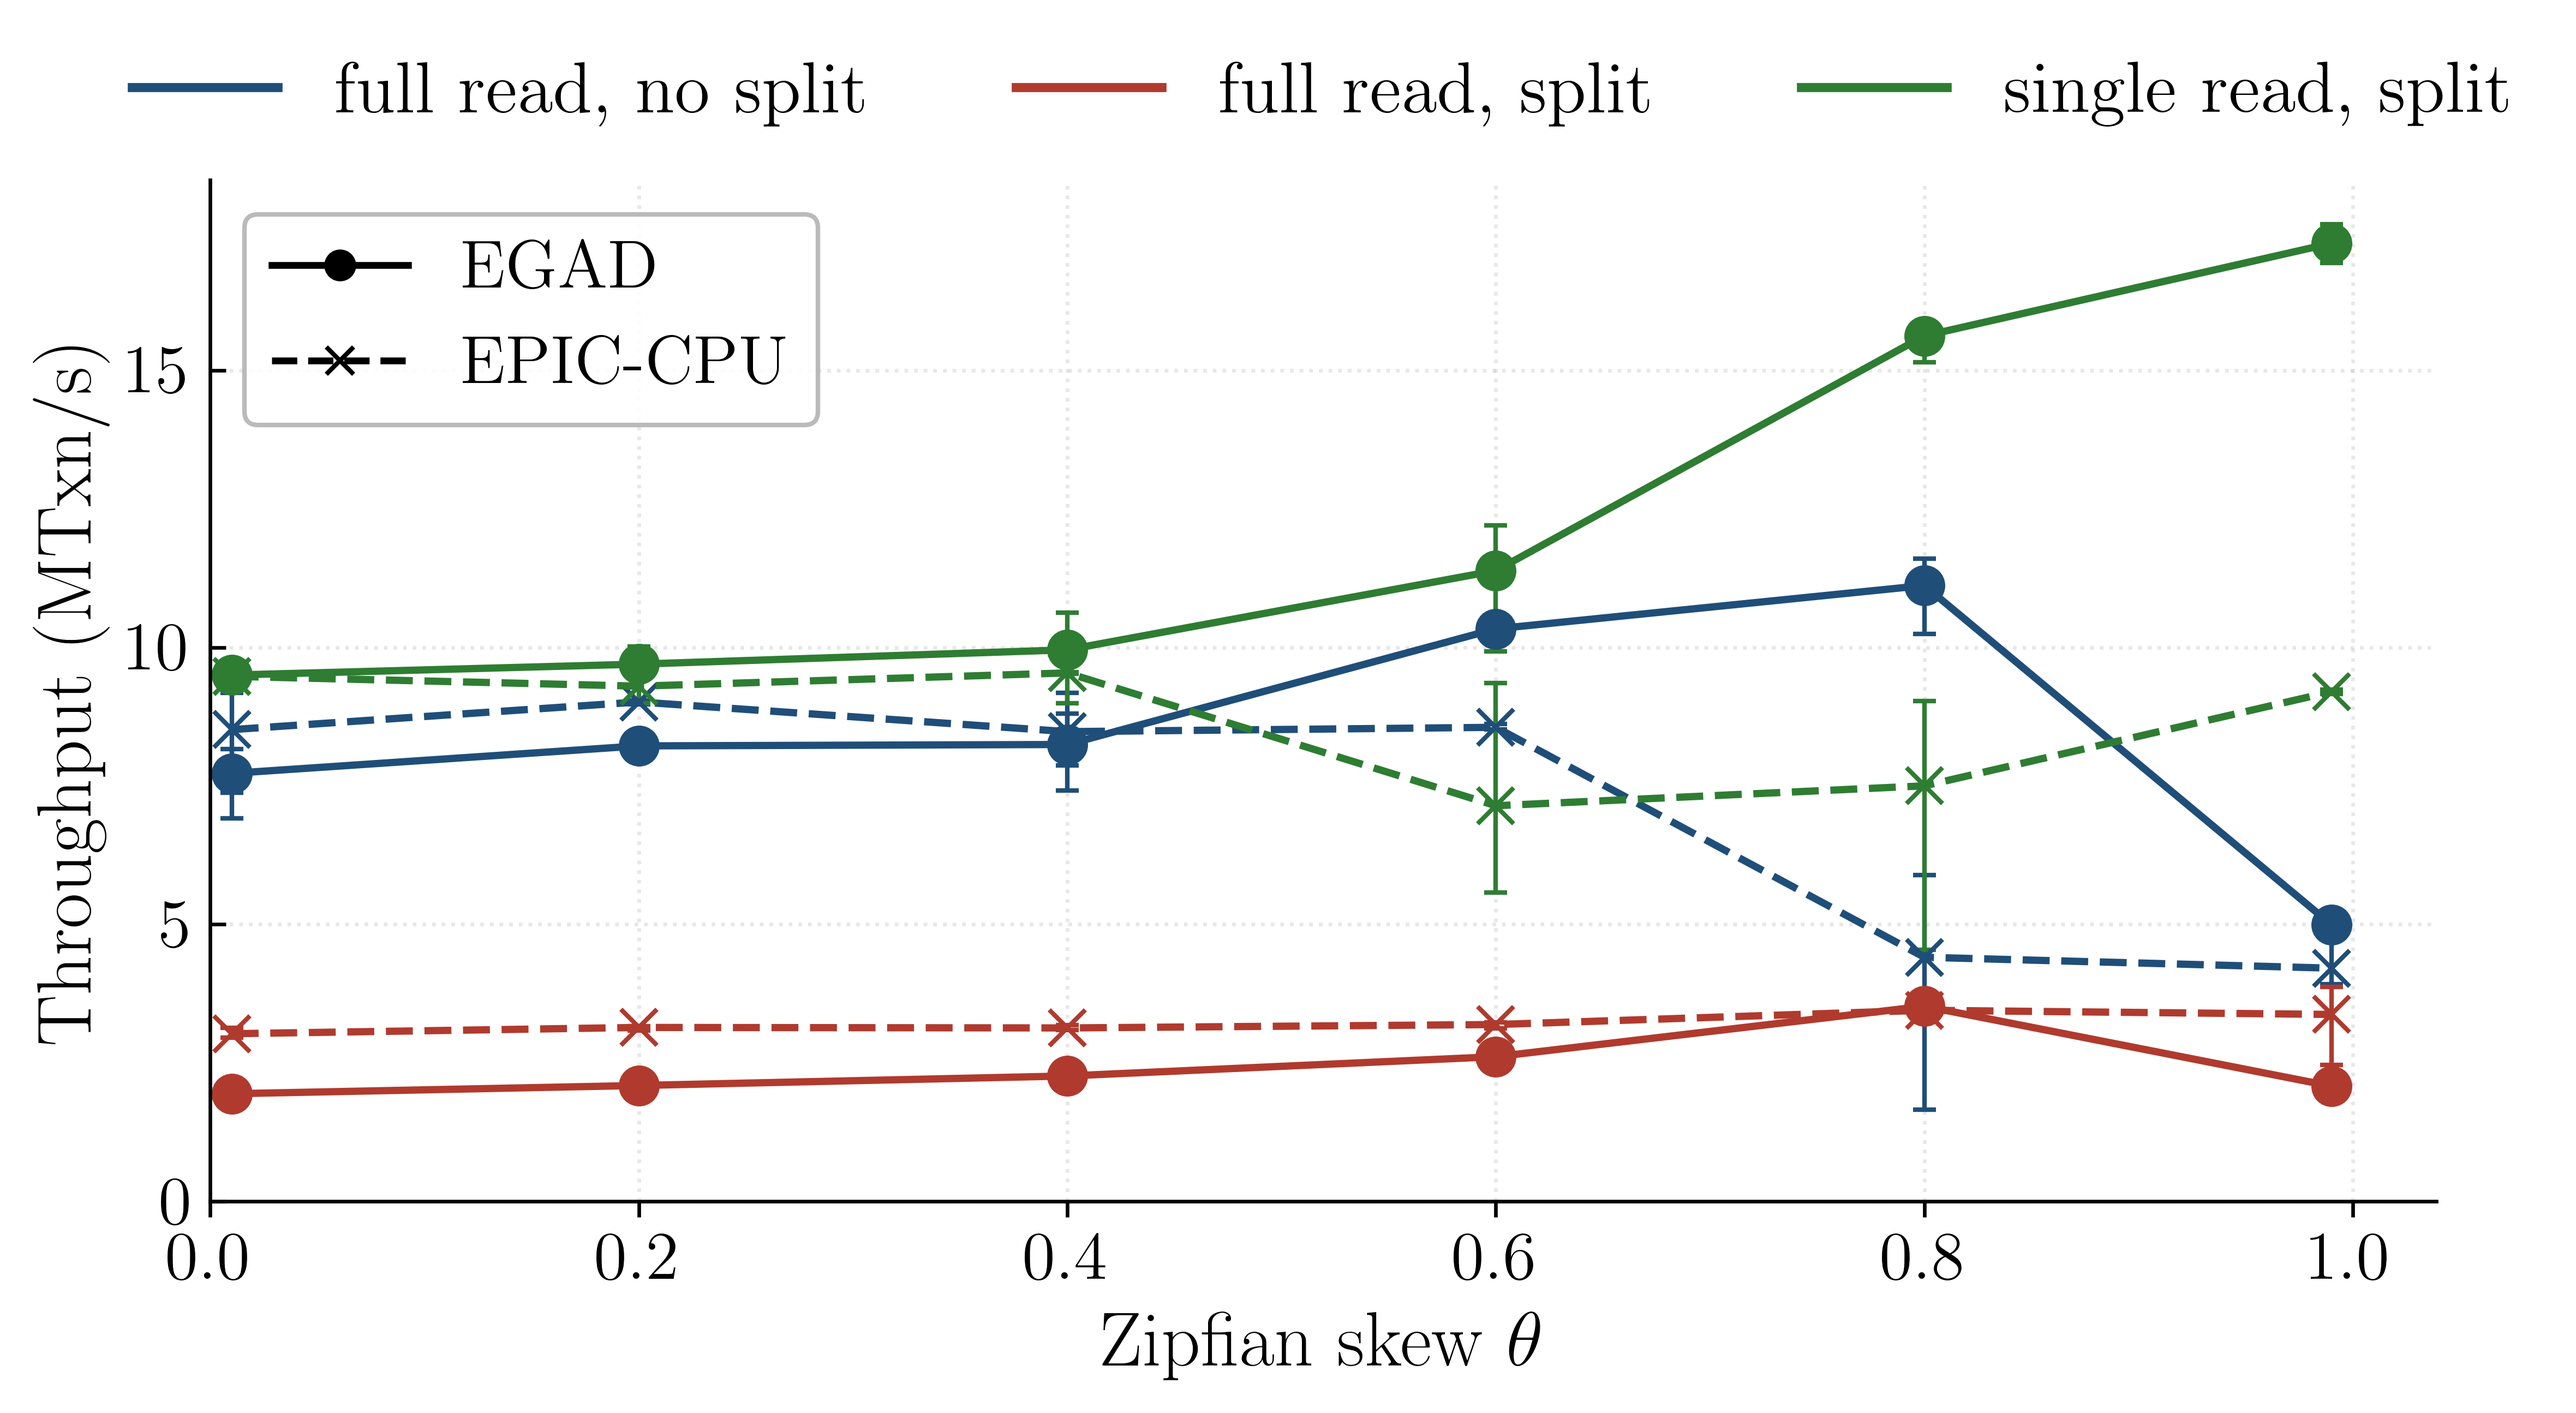
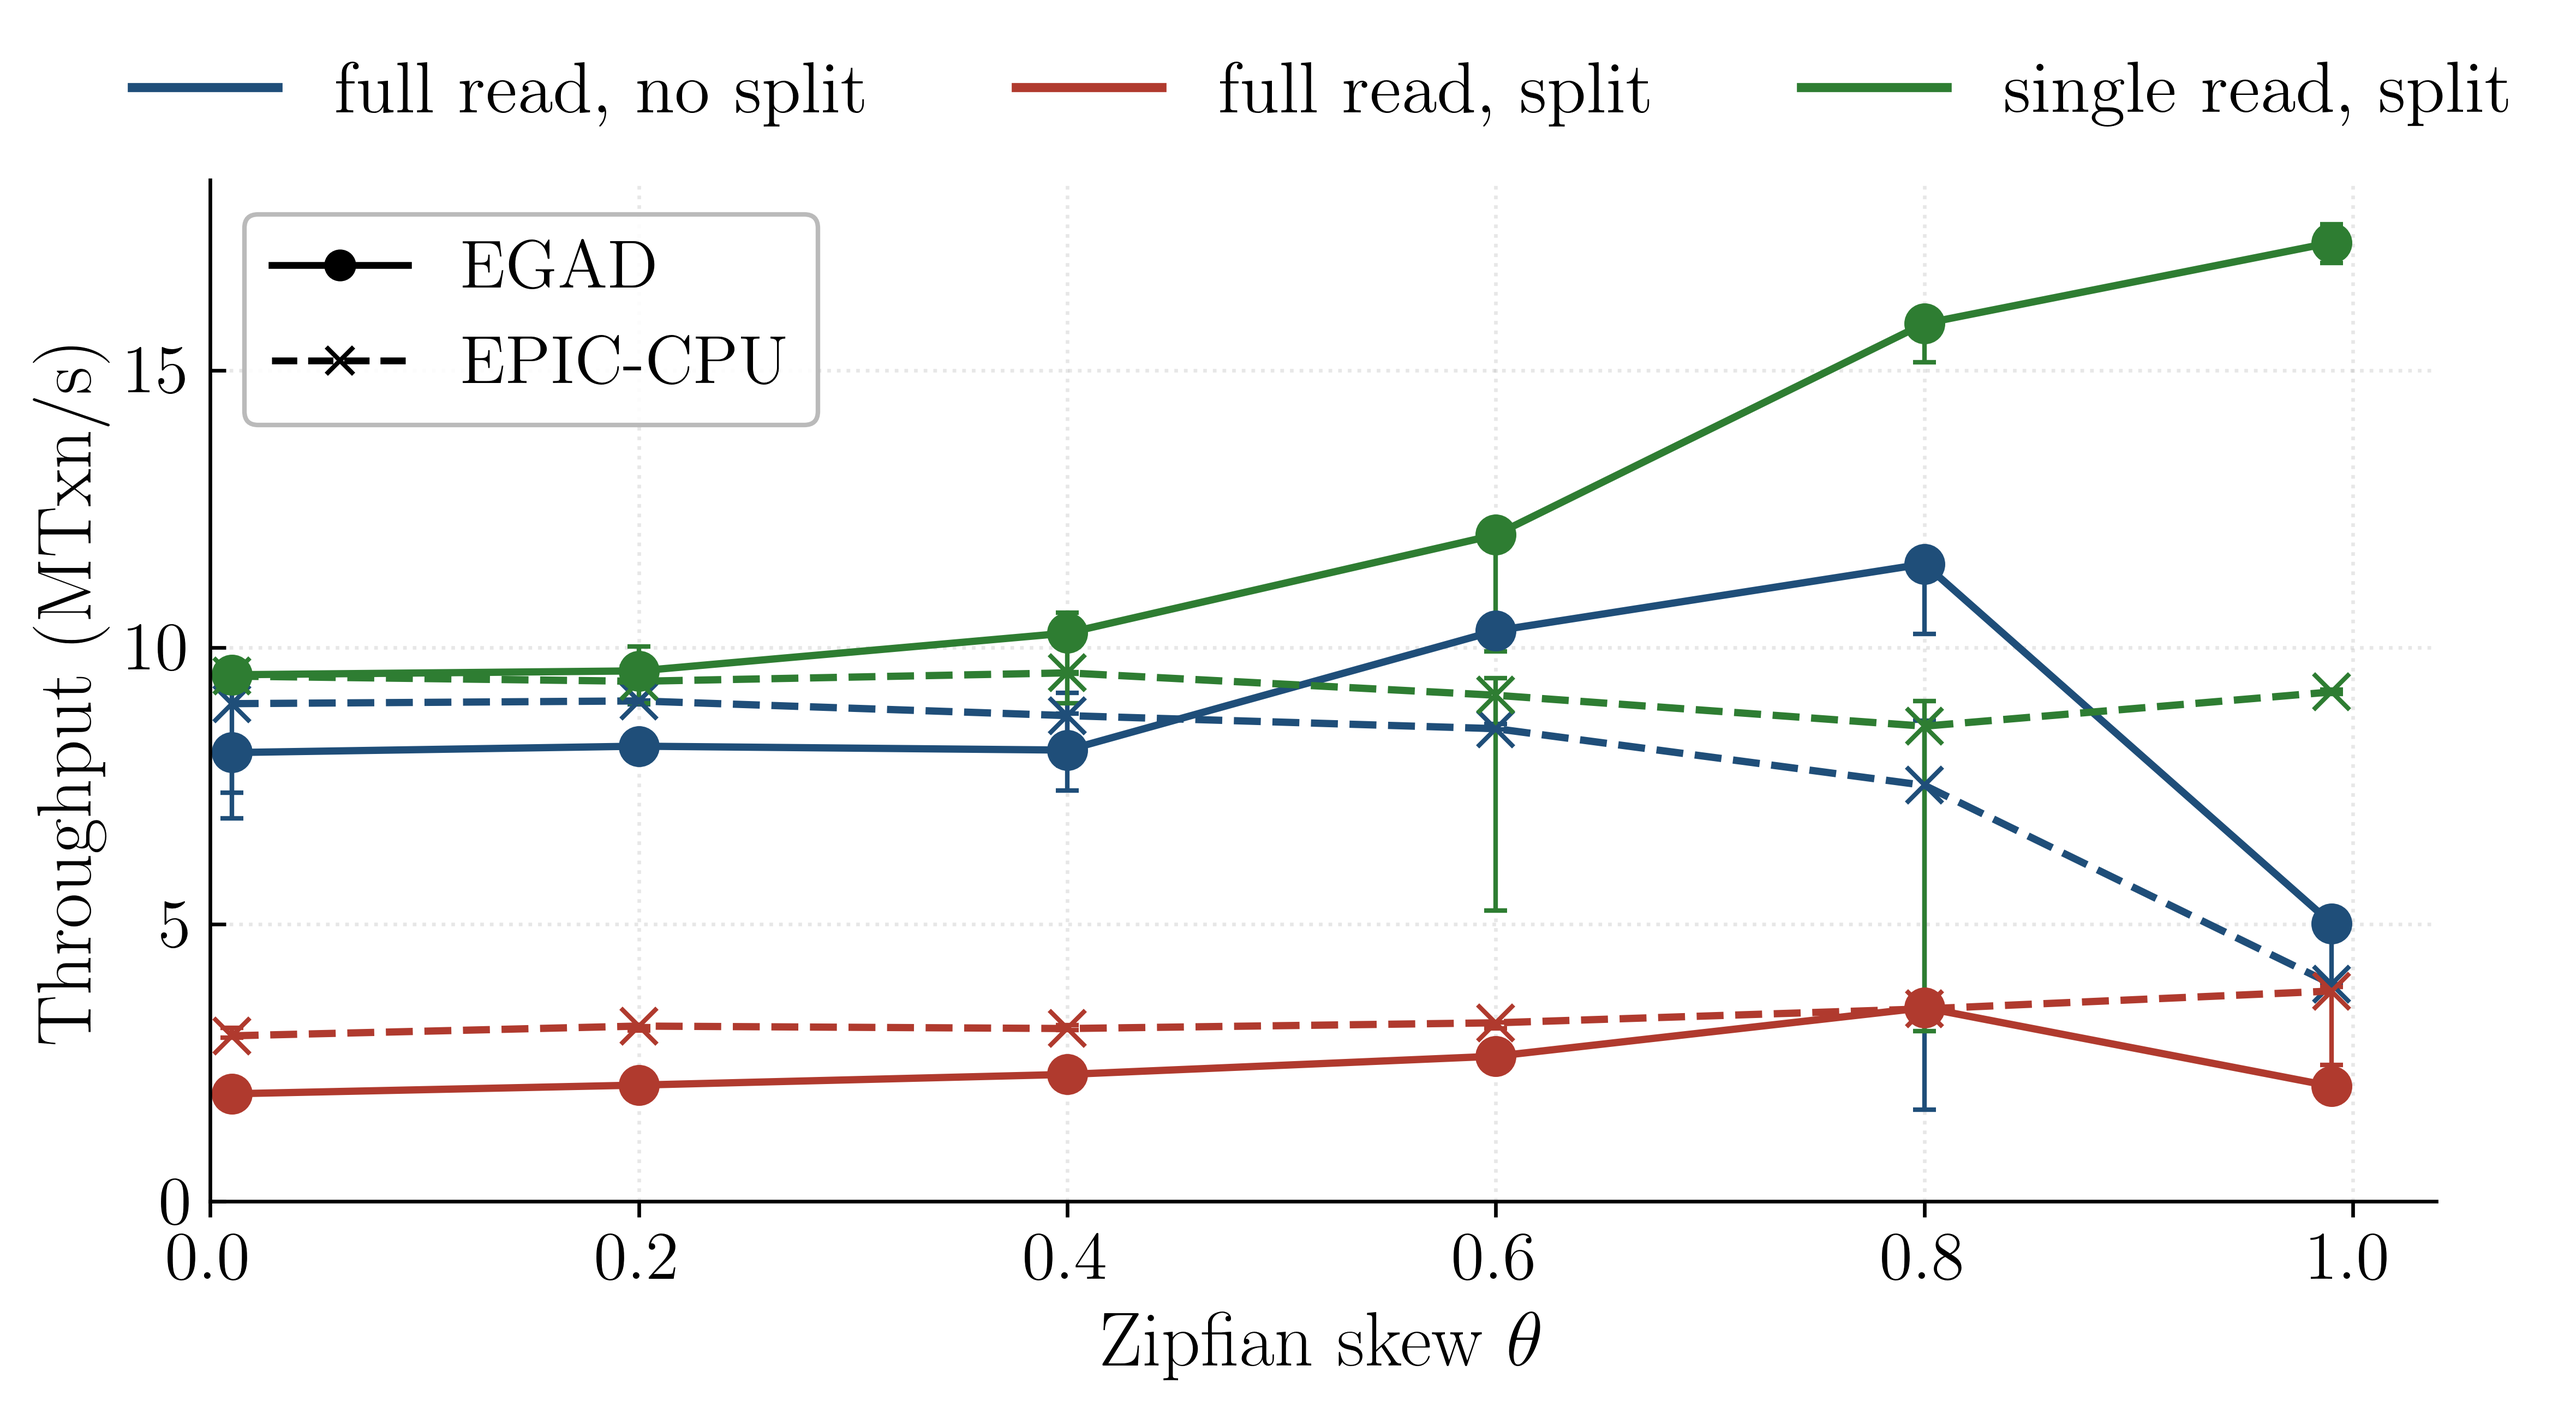
EGAD_plotting: config-sensitivity centers are medians -- slow-mode cpu cells topped up to ten reps on the quiet box; rTfF theta-0.8 ratio corrects 2.52x to 1.53x

diff --git a/EGAD_plotting/plots/06_config_sensitivity.py b/EGAD_plotting/plots/06_config_sensitivity.py
@@ -139,11 +139,14 @@ def render(cells: Dict[Tuple[str, str, float], List[float]]) -> None:
             ("hybrid_staging", "-",  "o"),
             ("cpu_only",       "--", "x"),
         ):
-            pts = []  # (skew, mean, min, max) -- center stays the mean
+            # Median center: the EPIC-CPU cells carry mode structure across
+            # their reps (upstream's slow mode), and a mean would sit between
+            # modes. Cells whose whiskers showed both modes carry ten reps.
+            pts = []  # (skew, median, min, max)
             for s in skews:
                 vs = cells.get((config, mode, s), [])
                 if vs:
-                    pts.append((s, statistics.mean(vs), min(vs), max(vs)))
+                    pts.append((s, statistics.median(vs), min(vs), max(vs)))
             if not pts:
                 continue
             xs_plot = [p[0] for p in pts]
@@ -190,9 +193,9 @@ def render(cells: Dict[Tuple[str, str, float], List[float]]) -> None:
     csv_path = OUT_BASE + ".csv"
     with open(csv_path, "w", newline="") as f:
         w = csv.writer(f)
-        w.writerow(["config", "mode", "skew", "mean_mtxn_s", "min_mtxn_s", "max_mtxn_s", "n_reps"])
+        w.writerow(["config", "mode", "skew", "median_mtxn_s", "min_mtxn_s", "max_mtxn_s", "n_reps"])
         for (config, mode, skew), vs in sorted(cells.items()):
-            w.writerow([config, mode, skew, statistics.mean(vs),
+            w.writerow([config, mode, skew, statistics.median(vs),
                         round(min(vs), 3), round(max(vs), 3), len(vs)])
     print(f"saved {csv_path}")
 

diff --git a/EGAD_plotting/PLOTS.md b/EGAD_plotting/PLOTS.md
@@ -10,12 +10,15 @@ spanning its repetitions (min to max), rendered from the same committed
 log datasets. Center statistics were verified cell-exact against the
 prior CSVs before the swap, so every cite table below still holds. The
 CSVs gained min/max columns, and the rep-aggregation columns of figures
-03/06/07/13 were renamed `mean_mtxn_s` to say what they always computed
-(fig 09/15 genuinely use medians and keep `median_mtxn_s`). Known
-mode-structure cells whose whiskers are now visibly wide: the 1 KB
-EPIC-CPU cells of fig 03 (documented bimodal, ten reps) and the rTfF
-EPIC-CPU theta=0.8 cell of fig 06 (reps 1.66/5.7/5.89; candidates for a
-ten-rep top-up and a median center, pending a decision).
+07/13 were renamed `mean_mtxn_s` to say what they always computed
+(fig 09/15 genuinely use medians and keep `median_mtxn_s`). Figures 03
+and 06 switched to median centers (`median_mtxn_s`) on 2026-08-12:
+upstream's CPU executor shows a recurring slow mode on this hardware,
+and the affected cells (every fig-03 cpu cell; fig 06 rTfF theta=0.8
+and rFfT theta=0.6/0.8) carry ten reps, topped up on a quiet box, so
+the median sits on the dominant mode instead of between modes.
+Headline movements from that switch are disclosed in each figure's
+section below.
 
 ---
 
@@ -367,8 +370,8 @@ theta=0.99)."
 ### Headline claim
 "The hybrid design's win over cpu_only depends on read/write semantics.
 At -rT-fT (full-record reads against field-split storage), the 10x
-read-op amplification eats throughput and hybrid loses to cpu_only below
-theta=0.6."
+read-op amplification eats throughput and hybrid loses to cpu_only at
+every skew except a tie at theta=0.8."
 
 ### Experimental design
 - ycsbf, 120 B, 20 M records
@@ -380,6 +383,13 @@ theta=0.6."
   CPU mode refuses field-split configs outright ("split field not
   supported on CPU", verified 2026-07-17). The 25dac65 rewrite added
   that capability; the paper discloses it where the figure is discussed.
+- Centers are per-cell medians (2026-08-12). The slow-mode cpu cells
+  (rTfF theta=0.8: reps down to 1.66; rFfT theta=0.6/0.8: reps down to
+  5.25/3.08) carry ten reps each; all other cells are 3-rep medians
+  (tight). Movements vs the old 3-rep means: rTfF theta=0.8 ratio
+  2.52x -> 1.53x (the old cpu mean sat in the slow mode), rTfF
+  theta=0.99 1.19x -> 1.28x, low-skew band 0.91-0.97x -> 0.90-0.93x,
+  rFfT theta=0.8 2.08x -> 1.85x.
 - Cache pressure held at ~33.6 % across configs:
   - -rT-fF: `EPIC_YCSB_CACHE_CAP=6720000` (records, 33.6 % of 20 M)
   - -rT-fT and -rF-fT: no cap (autosizer's natural pick = 67 M field-units,
@@ -388,18 +398,18 @@ theta=0.6."
 
 ### How to read
 - 6 lines, 3 colors x {hybrid solid, cpu_only dashed}:
-  - Blue (-rT-fF): regime split, hybrid 0.91x to 0.97x at theta <= 0.4,
-    then 1.21x at 0.6, 2.52x at 0.8, 1.19x at 0.99
+  - Blue (-rT-fF): regime split, hybrid 0.90x to 0.93x at theta <= 0.4,
+    then 1.21x at 0.6, 1.53x at 0.8, 1.28x at 0.99
   - Red (-rT-fT): hybrid LOSES to cpu_only at every skew except a
-    1.02x tie at theta=0.8 (0.62 to 0.82x elsewhere). This is the
+    1.01x tie at theta=0.8 (0.55 to 0.81x elsewhere). This is the
     "falls short" line.
   - Green (-rF-fT): hybrid at or above parity everywhere, biggest at
-    theta=0.8 (2.08x) and theta=0.99 (1.88x)
+    theta=0.99 (1.88x) and theta=0.8 (1.85x)
 
 ### Cite
 - At -rT-fT, hybrid throughput is 1.9 to 3.5 MTxn/s vs cpu_only 3.0 to
-  3.5 MTxn/s - at or below baseline across the sweep.
-- At -rT-fF, hybrid 7.7 to 11.1 MTxn/s vs stock cpu_only 4.2 to 9.0.
+  3.8 MTxn/s - at or below baseline across the sweep.
+- At -rT-fF, hybrid 5.0 to 11.5 MTxn/s vs stock cpu_only 3.9 to 9.0.
 - At -rF-fT, hybrid up to 17.3 MTxn/s at theta=0.99, the absolute peak
   (1.88x its cpu baseline there).
 
